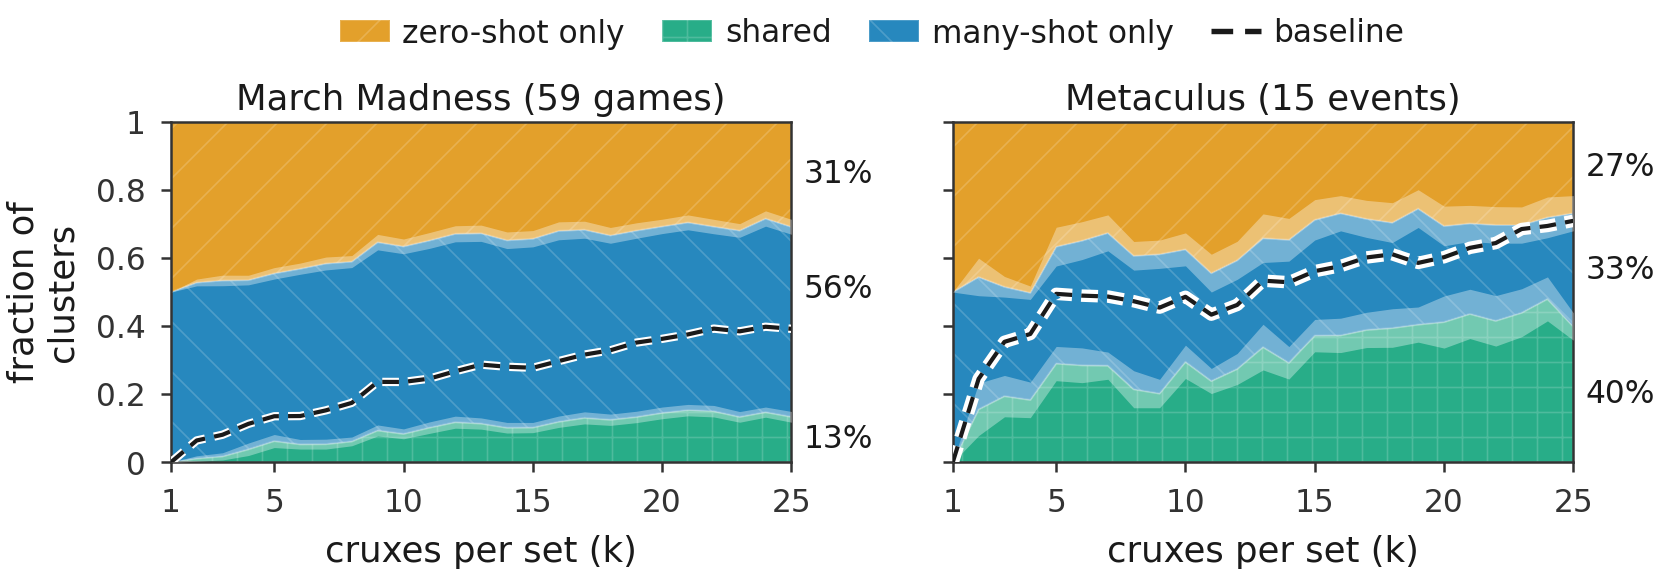
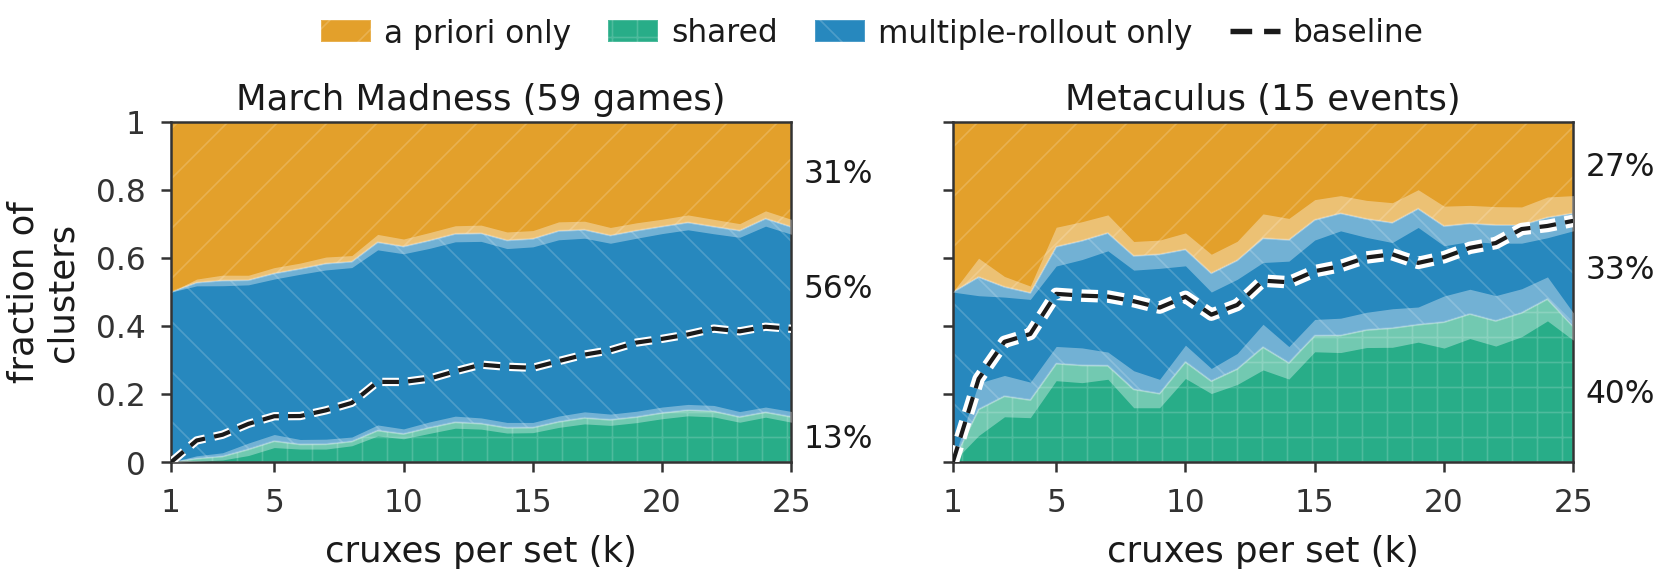
README and its two figures use the paper's method names: a priori, single-rollout, multiple-rollout
The paper replaced zero-shot, one-shot and many-shot on 2026-10-14 and redrew its figures. The two PNGs are the relabelled ones, with the same data.

Changed region(s): [[0.1842, 0.0296, 0.8597, 0.0887]]

diff --git a/README.md b/README.md
@@ -68,8 +68,8 @@ its forecasts actually disagreed on.
 
 ![Overlap against the permutation baseline, 1 to 25 cruxes a side](figures/stacked_area_merged.png)
 
-Naming more cruxes never closes the gap. Each panel stacks the clusters that hold zero-shot cruxes
-only (top, orange), many-shot cruxes only (middle, blue), and both kinds (bottom, green, the
+Naming more cruxes never closes the gap. Each panel stacks the clusters that hold a priori cruxes
+only (top, orange), multiple-rollout cruxes only (middle, blue), and both kinds (bottom, green, the
 overlap), for sets of 1 to 25 cruxes a side, with March Madness on the left and Metaculus on the
 right. The green band stays under the dashed permutation baseline at every set size, in both
 sources.
